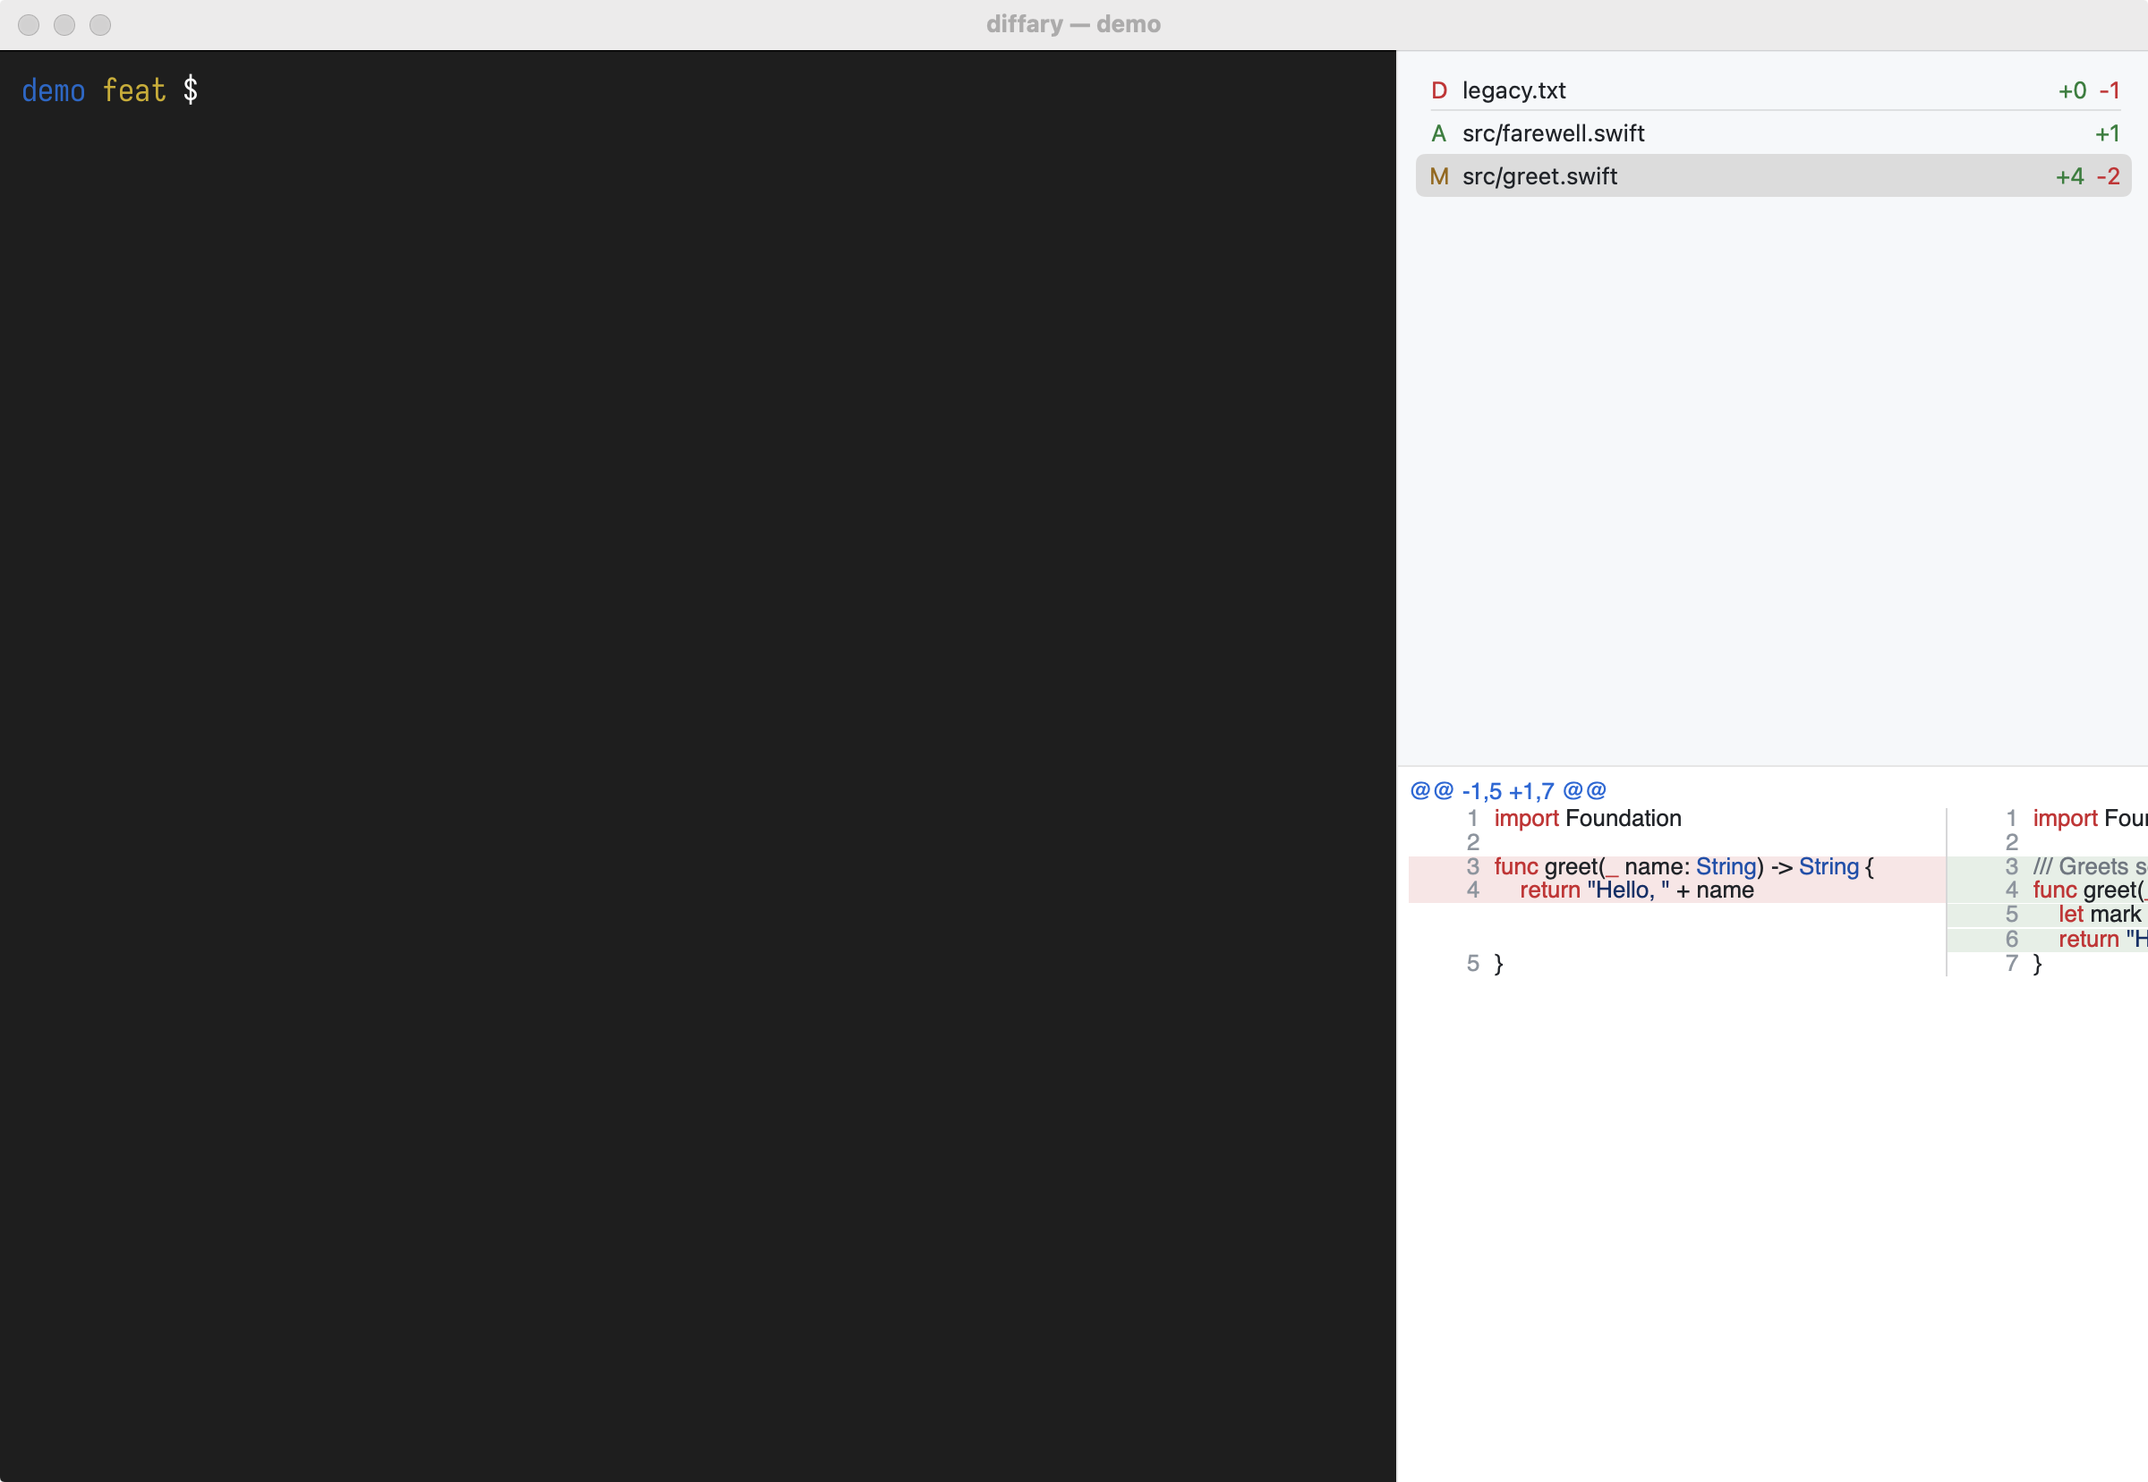
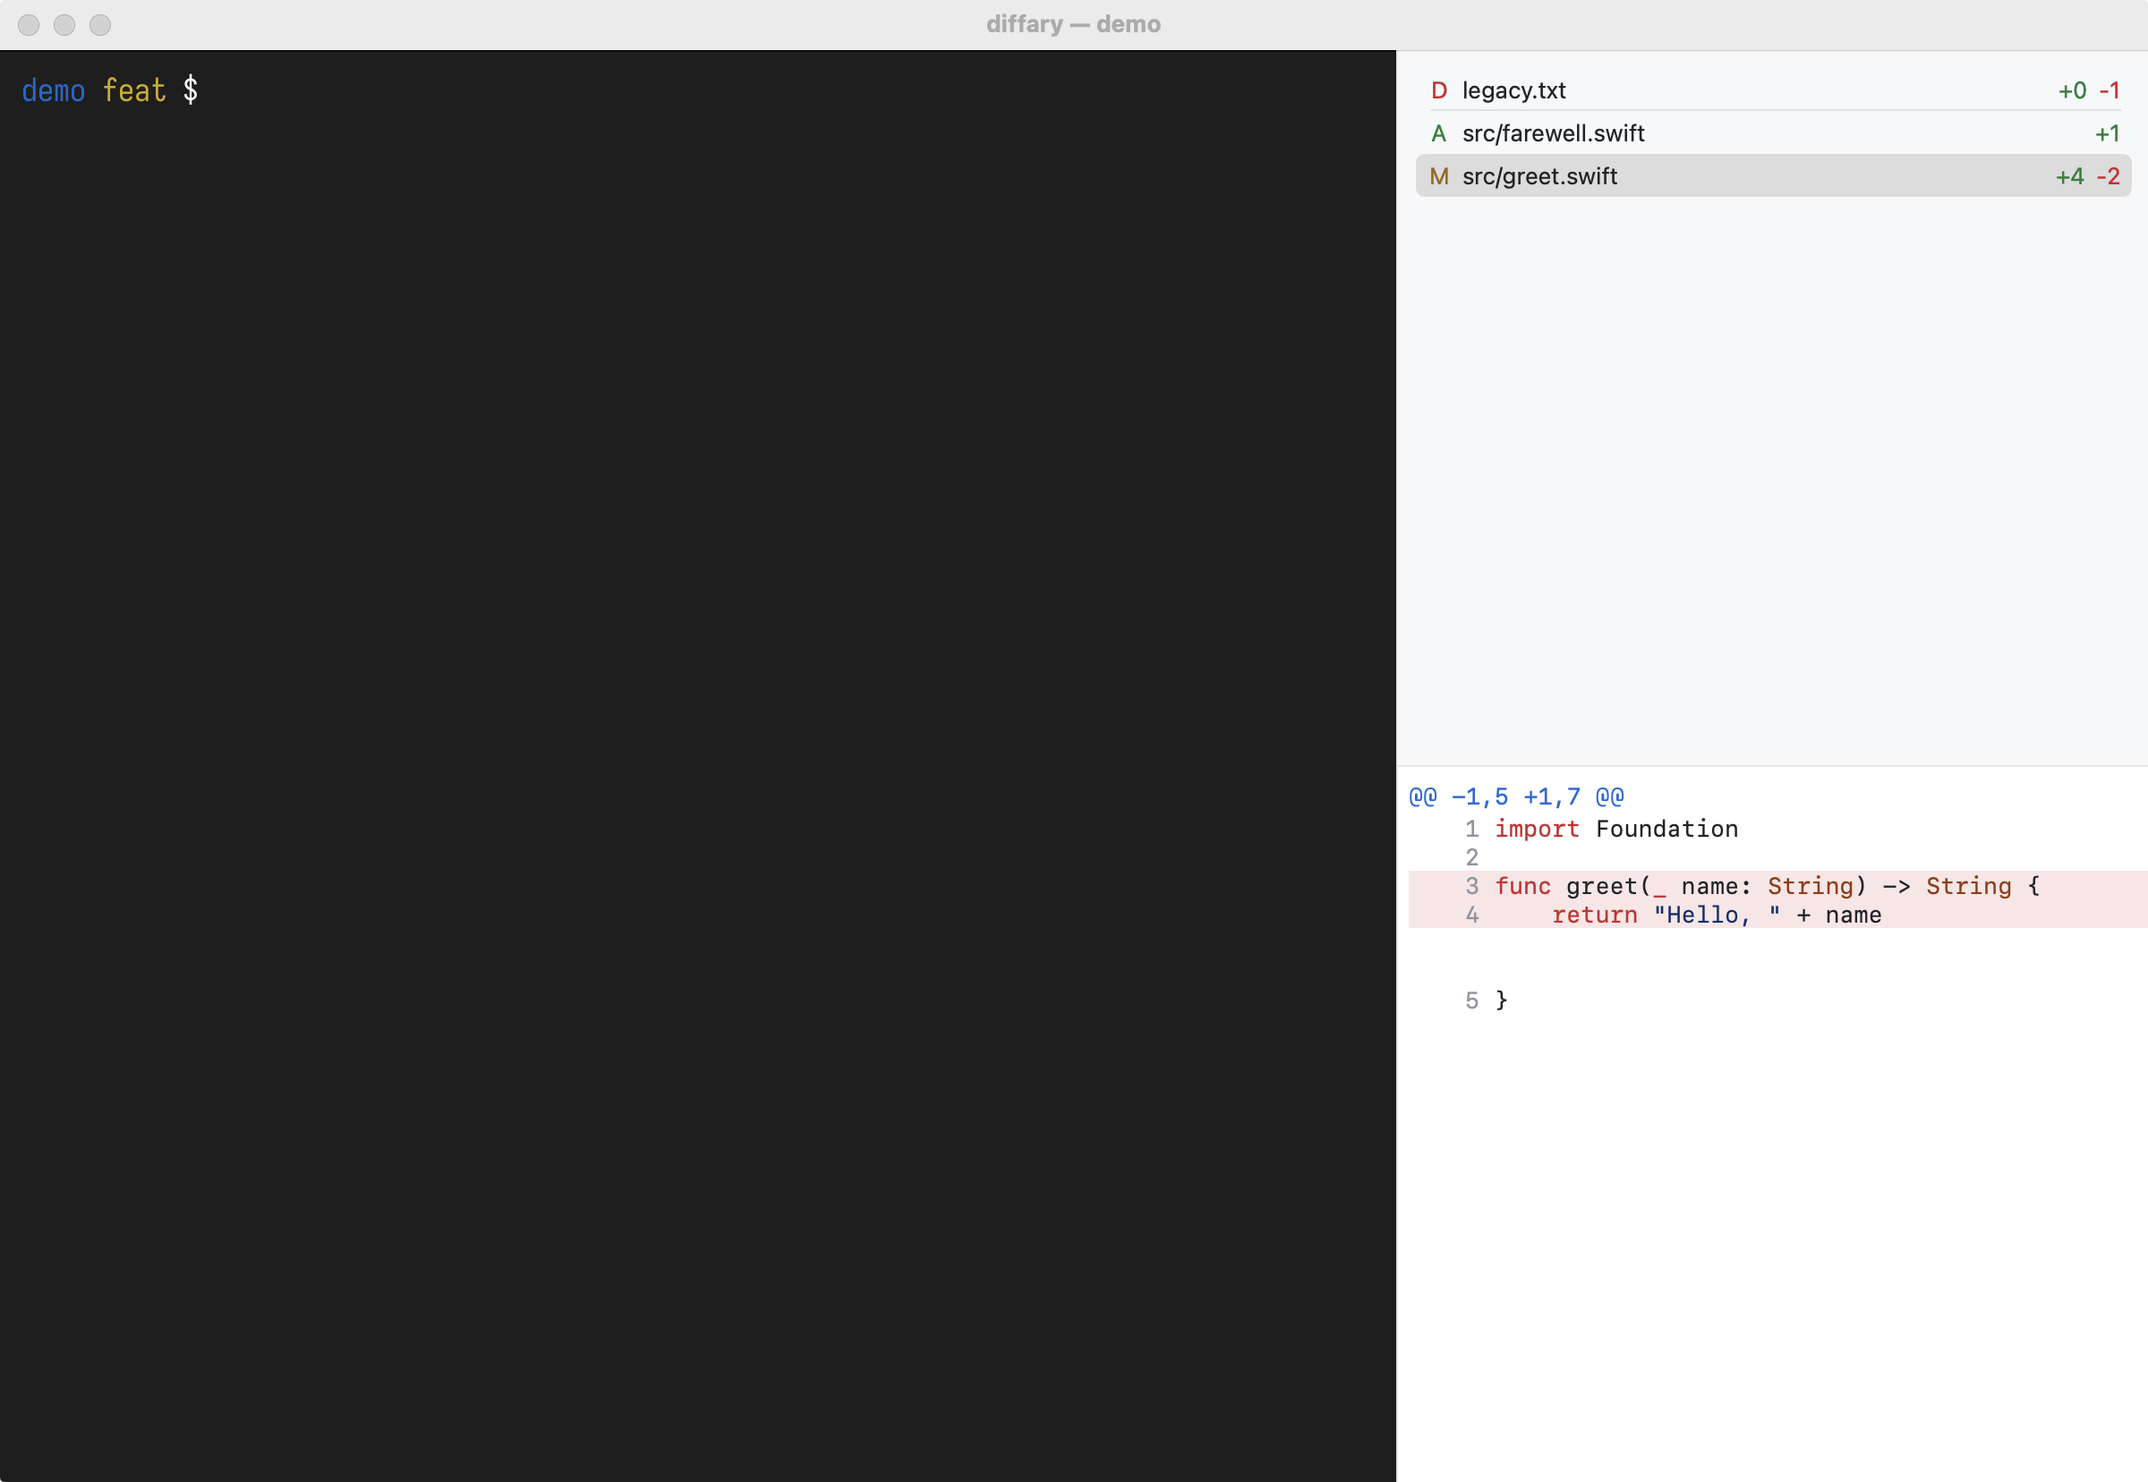
fix(app): monospace fallback, visible markers, full-width rows, class-based highlighting
Highlight via highlight.js classes in JavaScriptCore with a per-line cache.

Changed region(s): [[0.6562, 0.5236, 1.0, 0.6467]]

diff --git a/Sources/Diffary/DiffView.swift b/Sources/Diffary/DiffView.swift
@@ -1,13 +1,20 @@
 import AppKit
 import DiffaryCore
-import Highlightr
+import JavaScriptCore
 import SwiftUI
+
+/// The configured font, or the system monospace font when that family isn't installed.
+func monoFont(name: String, size: Double) -> NSFont {
+    NSFont(name: name, size: size) ?? .monospacedSystemFont(ofSize: size, weight: .regular)
+}
 
 struct DiffView: View {
     @ObservedObject var model: AppModel
+    private let numW: CGFloat = 40, markerW: CGFloat = 10, gap: CGFloat = 8, pad: CGFloat = 6
 
     var body: some View {
         let t = model.theme
+        let nsFont = monoFont(name: model.settings.font, size: model.settings.fontSize)
         Group {
             switch model.diff {
             case nil: placeholder(model.selected == nil ? "Select a file" : "Loading…")
@@ -15,30 +22,46 @@ struct DiffView: View {
             case .tooLarge(let n)?: placeholder("Diff too large (\(n) lines). Open it in the terminal.")
             case .empty?: placeholder("No differences with current options")
             case .text(let hunks)?:
-                ScrollView([.vertical, .horizontal]) {
-                    LazyVStack(alignment: .leading, spacing: 0) {
-                        ForEach(Array(hunks.enumerated()), id: \.offset) { _, hunk in
-                            Text(hunk.header).foregroundStyle(Color(t.hunkHeader)).padding(.vertical, 2)
-                            if model.settings.diffView == .unified {
-                                ForEach(Array(hunk.lines.enumerated()), id: \.offset) { _, line in unifiedRow(line) }
-                            } else {
-                                ForEach(Array(hunk.sideBySideRows.enumerated()), id: \.offset) { _, row in
-                                    HStack(spacing: 0) {
-                                        half(row.left, number: row.left?.oldNumber)
-                                        Divider()
-                                        half(row.right, number: row.right?.newNumber)
+                GeometryReader { geo in
+                    let width = contentWidth(hunks, nsFont, viewport: geo.size.width)
+                    ScrollView([.vertical, .horizontal]) {
+                        LazyVStack(alignment: .leading, spacing: 0) {
+                            ForEach(Array(hunks.enumerated()), id: \.offset) { _, hunk in
+                                Text(hunk.header).foregroundStyle(Color(t.hunkHeader)).padding(.vertical, 2)
+                                if model.settings.diffView == .unified {
+                                    ForEach(Array(hunk.lines.enumerated()), id: \.offset) { _, line in unifiedRow(line) }
+                                } else {
+                                    ForEach(Array(hunk.sideBySideRows.enumerated()), id: \.offset) { _, row in
+                                        HStack(spacing: 0) {
+                                            half(row.left, number: row.left?.oldNumber)
+                                            Divider()
+                                            half(row.right, number: row.right?.newNumber)
+                                        }
                                     }
                                 }
                             }
                         }
+                        .padding(pad)
+                        .frame(width: width, alignment: .leading)
                     }
-                    .padding(6)
                 }
             }
         }
-        .font(.custom(model.settings.font, size: model.settings.fontSize))
+        .font(Font(nsFont as CTFont))
         .foregroundStyle(Color(t.foreground))
         .background(Color(t.background))
+    }
+
+    /// Every row is as wide as the viewport or the longest line, whichever is larger.
+    private func contentWidth(_ hunks: [Hunk], _ font: NSFont, viewport: CGFloat) -> CGFloat {
+        let advance = ("M" as NSString).size(withAttributes: [.font: font]).width
+        let chars = CGFloat(hunks.flatMap(\.lines).map { $0.text.count }.max() ?? 0)
+        let text = chars * advance
+        if model.settings.diffView == .unified {
+            return max(viewport, 2 * pad + 2 * numW + markerW + 3 * gap + text)
+        }
+        let half = max((viewport - 2 * pad - 1) / 2, numW + gap + text)
+        return 2 * pad + 2 * half + 1
     }
 
     private func placeholder(_ s: String) -> some View {
@@ -46,9 +69,10 @@ struct DiffView: View {
     }
 
     private func unifiedRow(_ line: DiffLine) -> some View {
-        HStack(spacing: 8) {
+        HStack(spacing: gap) {
             num(line.oldNumber); num(line.newNumber)
             Text(marker(line.kind)).foregroundStyle(Color(fg(line.kind)))
+                .frame(width: markerW).fixedSize().layoutPriority(1)
             code(line.text)
             Spacer(minLength: 0)
         }
@@ -57,18 +81,18 @@ struct DiffView: View {
     }
 
     private func half(_ line: DiffLine?, number: Int?) -> some View {
-        HStack(spacing: 8) {
+        HStack(spacing: gap) {
             num(number)
             if let line { code(line.text) } else { Text("") }
             Spacer(minLength: 0)
         }
-        .frame(minWidth: 300, maxWidth: .infinity, alignment: .leading)
+        .frame(maxWidth: .infinity, alignment: .leading)
         .background(Color(line.map { bg($0.kind) } ?? RGBA(r: 0, g: 0, b: 0, a: 0)))
     }
 
     private func num(_ n: Int?) -> some View {
         Text(n.map(String.init) ?? "").foregroundStyle(Color(model.theme.lineNumber))
-            .frame(width: 40, alignment: .trailing)
+            .frame(width: numW, alignment: .trailing).fixedSize().layoutPriority(1)
     }
 
     private func code(_ text: String) -> some View {
@@ -78,9 +102,7 @@ struct DiffView: View {
     private func codeText(_ text: String) -> Text {
         guard model.settings.syntaxHighlight,
               let language = SyntaxHighlighter.language(for: model.selected?.path),
-              let attr = SyntaxHighlighter.shared.highlight(text, language: language, theme: model.theme),
-              // \.appKit scope keeps Highlightr's NSColor foregrounds visible to SwiftUI.
-              let styled = try? AttributedString(attr, including: \.appKit)
+              let styled = SyntaxHighlighter.shared.highlight(text, language: language, theme: model.theme)
         else { return Text(text) }
         return Text(styled)
     }
@@ -94,17 +116,22 @@ struct DiffView: View {
     }
 }
 
-/// Highlightr wrapper. Highlightr's Theme init is internal, so a custom CSS theme
-/// can't be loaded. Instead we highlight with the bundled atom-one-dark and remap
-/// its token colors onto the diffary theme's [syntax] colors, dropping fonts.
+/// highlight.js (the copy shipped in Highlightr's resource bundle) run in JavaScriptCore.
+/// Its HTML classes map to the diffary theme's [syntax] colors.
 @MainActor
 final class SyntaxHighlighter {
     static let shared = SyntaxHighlighter()
-    private let highlightr: Highlightr? = {
-        let h = Highlightr()
-        h?.setTheme(to: "atom-one-dark")
-        return h
+    private let fn: JSValue? = {
+        let dirs = [Bundle.main.resourceURL, Bundle.main.executableURL?.deletingLastPathComponent()].compactMap { $0 }
+        guard let path = dirs.compactMap({ Bundle(url: $0.appendingPathComponent("Highlightr_Highlightr.bundle")) })
+                  .compactMap({ $0.path(forResource: "highlight.min", ofType: "js") }).first,
+              let js = try? String(contentsOfFile: path, encoding: .utf8),
+              let ctx = JSContext() else { return nil }
+        ctx.evaluateScript(js)
+        return ctx.evaluateScript("(function(c,l){return hljs.highlight(c,{language:l,ignoreIllegals:true}).value})")
     }()
+    private var cache: [String: AttributedString] = [:]
+    private var themeKey = ""
 
     static func language(for path: String?) -> String? {
         guard let ext = path.map({ ($0 as NSString).pathExtension.lowercased() }), !ext.isEmpty else { return nil }
@@ -116,23 +143,22 @@ final class SyntaxHighlighter {
         return map[ext]
     }
 
-    // atom-one-dark token color (rgb hex) -> diffary [syntax] key; anything else is plain foreground.
-    private static let roles = ["c678dd": "keyword", "56b6c2": "keyword", "98c379": "string", "5c6370": "comment",
-                                "d19a66": "number", "e6c07b": "type", "61aeee": "type"]
-
-    func highlight(_ code: String, language: String, theme: DiffaryCore.Theme) -> NSAttributedString? {
-        guard let src = highlightr?.highlight(code, as: language, fastRender: true) else { return nil }
-        let out = NSMutableAttributedString(string: src.string)
-        let base = NSColor(theme.foreground)
-        out.addAttribute(.foregroundColor, value: base, range: NSRange(location: 0, length: out.length))
-        src.enumerateAttribute(.foregroundColor, in: NSRange(location: 0, length: src.length)) { value, range, _ in
-            guard let c = (value as? NSColor)?.usingColorSpace(.sRGB) else { return }
-            let hex = String(format: "%02x%02x%02x", Int((c.redComponent * 255).rounded()),
-                             Int((c.greenComponent * 255).rounded()), Int((c.blueComponent * 255).rounded()))
-            if let key = Self.roles[hex], let color = theme.syntax[key] {
-                out.addAttribute(.foregroundColor, value: NSColor(color), range: range)
-            }
+    func highlight(_ code: String, language: String, theme: DiffaryCore.Theme) -> AttributedString? {
+        let key = theme.syntax.map { "\($0.key)\($0.value.hex)" }.sorted().joined() + theme.foreground.hex
+        if key != themeKey { themeKey = key; cache.removeAll() }
+        let ck = language + "\0" + code
+        if let hit = cache[ck] { return hit }
+        guard let html = fn?.call(withArguments: [code, language]), html.isString else { return nil }
+        let (text, spans) = HighlightSpans.parse(html.toString() ?? "")
+        let out = NSMutableAttributedString(string: text)
+        out.addAttribute(.foregroundColor, value: NSColor(theme.foreground), range: NSRange(location: 0, length: out.length))
+        for span in spans {
+            if let c = theme.syntax[span.key] { out.addAttribute(.foregroundColor, value: NSColor(c), range: span.range) }
         }
-        return out
+        // \.appKit scope keeps the NSColor foregrounds visible to SwiftUI.
+        guard let styled = try? AttributedString(out, including: \.appKit) else { return nil }
+        if cache.count > 5000 { cache.removeAll() }
+        cache[ck] = styled
+        return styled
     }
 }

diff --git a/Sources/DiffaryCore/HighlightSpans.swift b/Sources/DiffaryCore/HighlightSpans.swift
@@ -1,0 +1,58 @@
+import Foundation
+
+/// Parses highlight.js HTML (`<span class="hljs-…">…</span>` plus entities) into plain
+/// text and colored ranges (UTF-16 offsets). Inner spans come after outer ones, so
+/// applying them in order lets the innermost win. Unknown classes produce no span.
+public enum HighlightSpans {
+    public struct Span: Equatable, Sendable {
+        public let range: NSRange
+        public let key: String
+    }
+
+    /// Theme [syntax] key for an hljs class list, e.g. "hljs-title class_" -> "type".
+    public static func key(forClasses classes: String) -> String? {
+        let names = Set(classes.split(separator: " ").map { $0.hasPrefix("hljs-") ? String($0.dropFirst(5)) : String($0) })
+        for (key, wanted) in [("keyword", ["keyword", "built_in", "literal"]), ("string", ["string", "regexp"]),
+                              ("comment", ["comment", "quote"]), ("number", ["number"]),
+                              ("type", ["type", "class", "class_"])] where !names.isDisjoint(with: wanted) {
+            return key
+        }
+        return nil
+    }
+
+    private static let entities = ["&lt;": "<", "&gt;": ">", "&amp;": "&", "&quot;": "\"", "&#x27;": "'", "&#39;": "'"]
+
+    public static func parse(_ html: String) -> (text: String, spans: [Span]) {
+        var text = "", spans: [Span] = []
+        var open: [(start: Int, key: String?, index: Int?)] = []
+        var length = 0  // UTF-16 length of text
+        var i = html.startIndex
+        func append(_ s: String) { text += s; length += s.utf16.count }
+        while i < html.endIndex {
+            let rest = html[i...]
+            if rest.hasPrefix("<span") , let close = rest.firstIndex(of: ">") {
+                let tag = rest[..<close]
+                var key: String?
+                if let r = tag.range(of: "class=\"") , let end = tag[r.upperBound...].firstIndex(of: "\"") {
+                    key = Self.key(forClasses: String(tag[r.upperBound..<end]))
+                }
+                var index: Int?
+                if let key { spans.append(Span(range: NSRange(location: length, length: 0), key: key)); index = spans.count - 1 }
+                open.append((length, key, index))
+                i = html.index(after: close)
+            } else if rest.hasPrefix("</span>") {
+                if let o = open.popLast(), let idx = o.index {
+                    spans[idx] = Span(range: NSRange(location: o.start, length: length - o.start), key: o.key!)
+                }
+                i = html.index(i, offsetBy: 7)
+            } else if rest.first == "&", let (e, v) = entities.first(where: { rest.hasPrefix($0.key) }) {
+                append(v)
+                i = html.index(i, offsetBy: e.count)
+            } else {
+                append(String(html[i]))
+                i = html.index(after: i)
+            }
+        }
+        return (text, spans.filter { $0.range.length > 0 })
+    }
+}

diff --git a/Tests/DiffaryCoreTests/HighlightSpansTests.swift b/Tests/DiffaryCoreTests/HighlightSpansTests.swift
@@ -1,0 +1,24 @@
+import Foundation
+import Testing
+@testable import DiffaryCore
+
+@Suite struct HighlightSpansTests {
+    @Test func nestingKeepsInnerAfterOuter() {
+        let r = HighlightSpans.parse(#"<span class="hljs-string">"a<span class="hljs-number">1</span>"</span>"#)
+        #expect(r.text == "\"a1\"")
+        #expect(r.spans == [.init(range: NSRange(location: 0, length: 4), key: "string"),
+                            .init(range: NSRange(location: 2, length: 1), key: "number")])
+    }
+
+    @Test func decodesEntitiesAndCountsUTF16() {
+        let r = HighlightSpans.parse(#"é &lt;<span class="hljs-keyword">a&amp;b</span>&quot;&#x27;"#)
+        #expect(r.text == "é <a&b\"'")
+        #expect(r.spans == [.init(range: NSRange(location: 3, length: 3), key: "keyword")])
+    }
+
+    @Test func unknownClassHasNoSpanAndClassMapping() {
+        #expect(HighlightSpans.parse(#"<span class="hljs-attr">x</span>"#).spans.isEmpty)
+        #expect(HighlightSpans.key(forClasses: "hljs-title class_") == "type")
+        #expect(HighlightSpans.key(forClasses: "hljs-built_in") == "keyword")
+    }
+}

diff --git a/Sources/Diffary/FileListView.swift b/Sources/Diffary/FileListView.swift
@@ -27,7 +27,7 @@ struct FileListView: View {
                 .scrollContentBackground(.hidden)
             }
         }
-        .font(.custom(model.settings.font, size: model.settings.fontSize))
+        .font(Font(monoFont(name: model.settings.font, size: model.settings.fontSize) as CTFont))
         .foregroundStyle(Color(t.foreground))
         .background(Color(t.sidebarBackground))
     }
